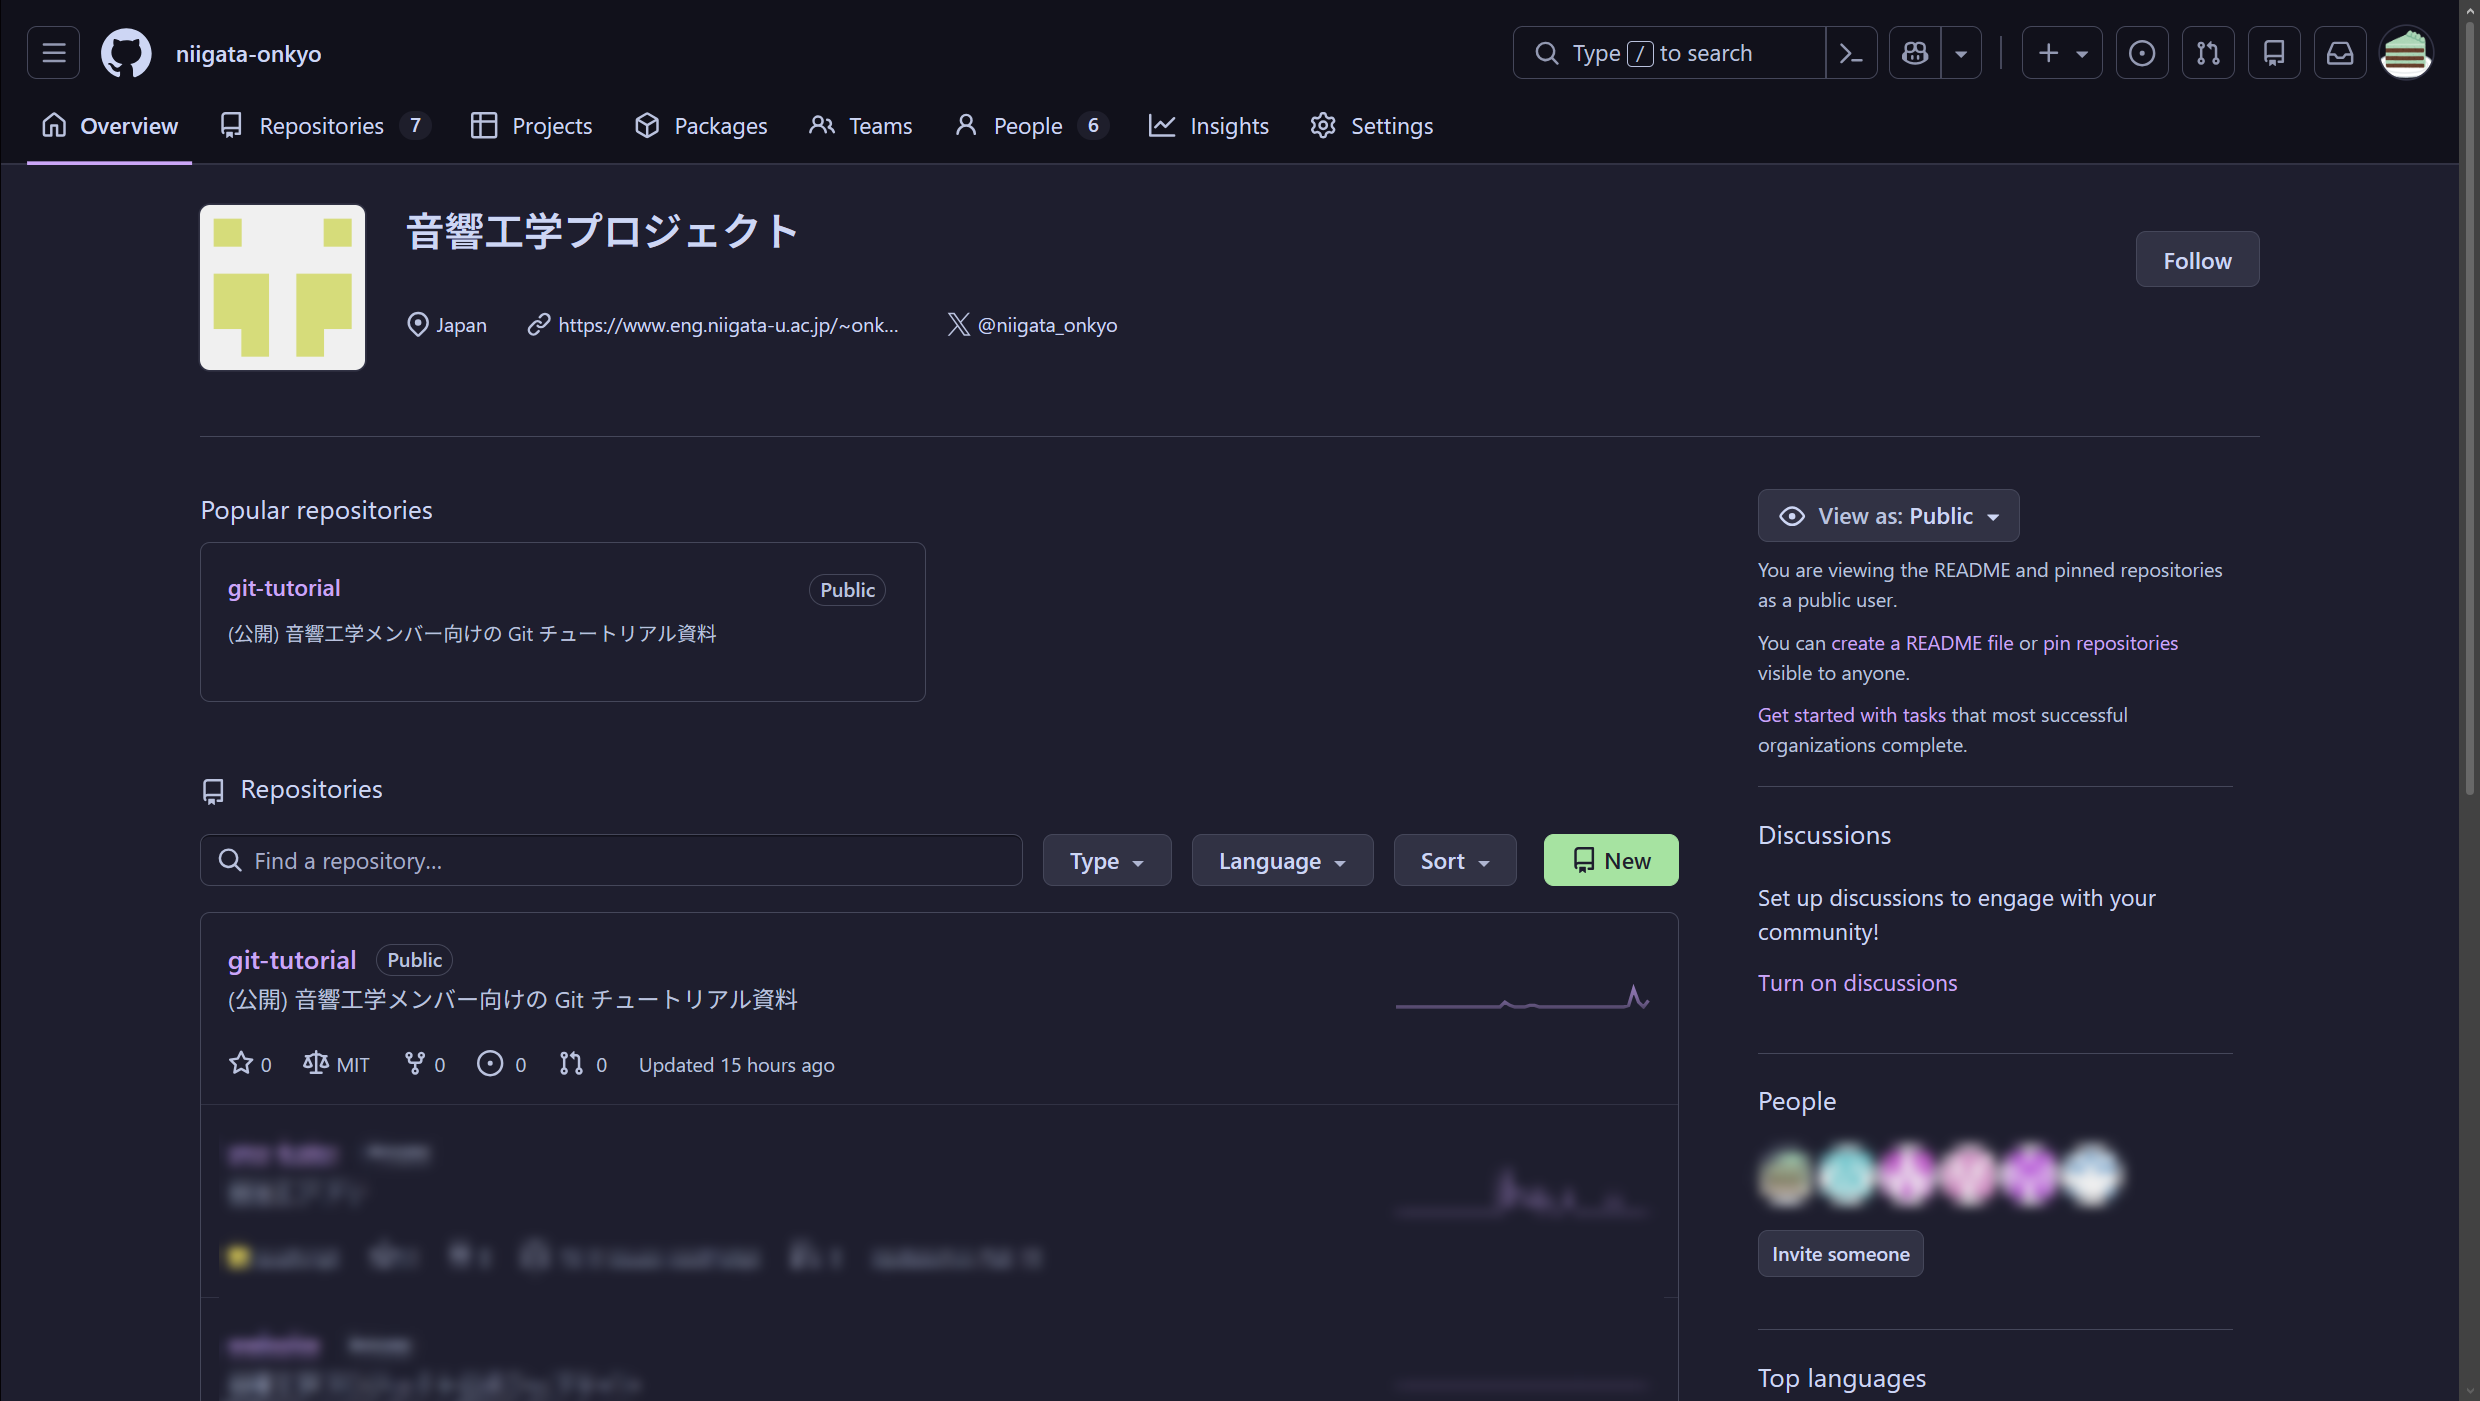
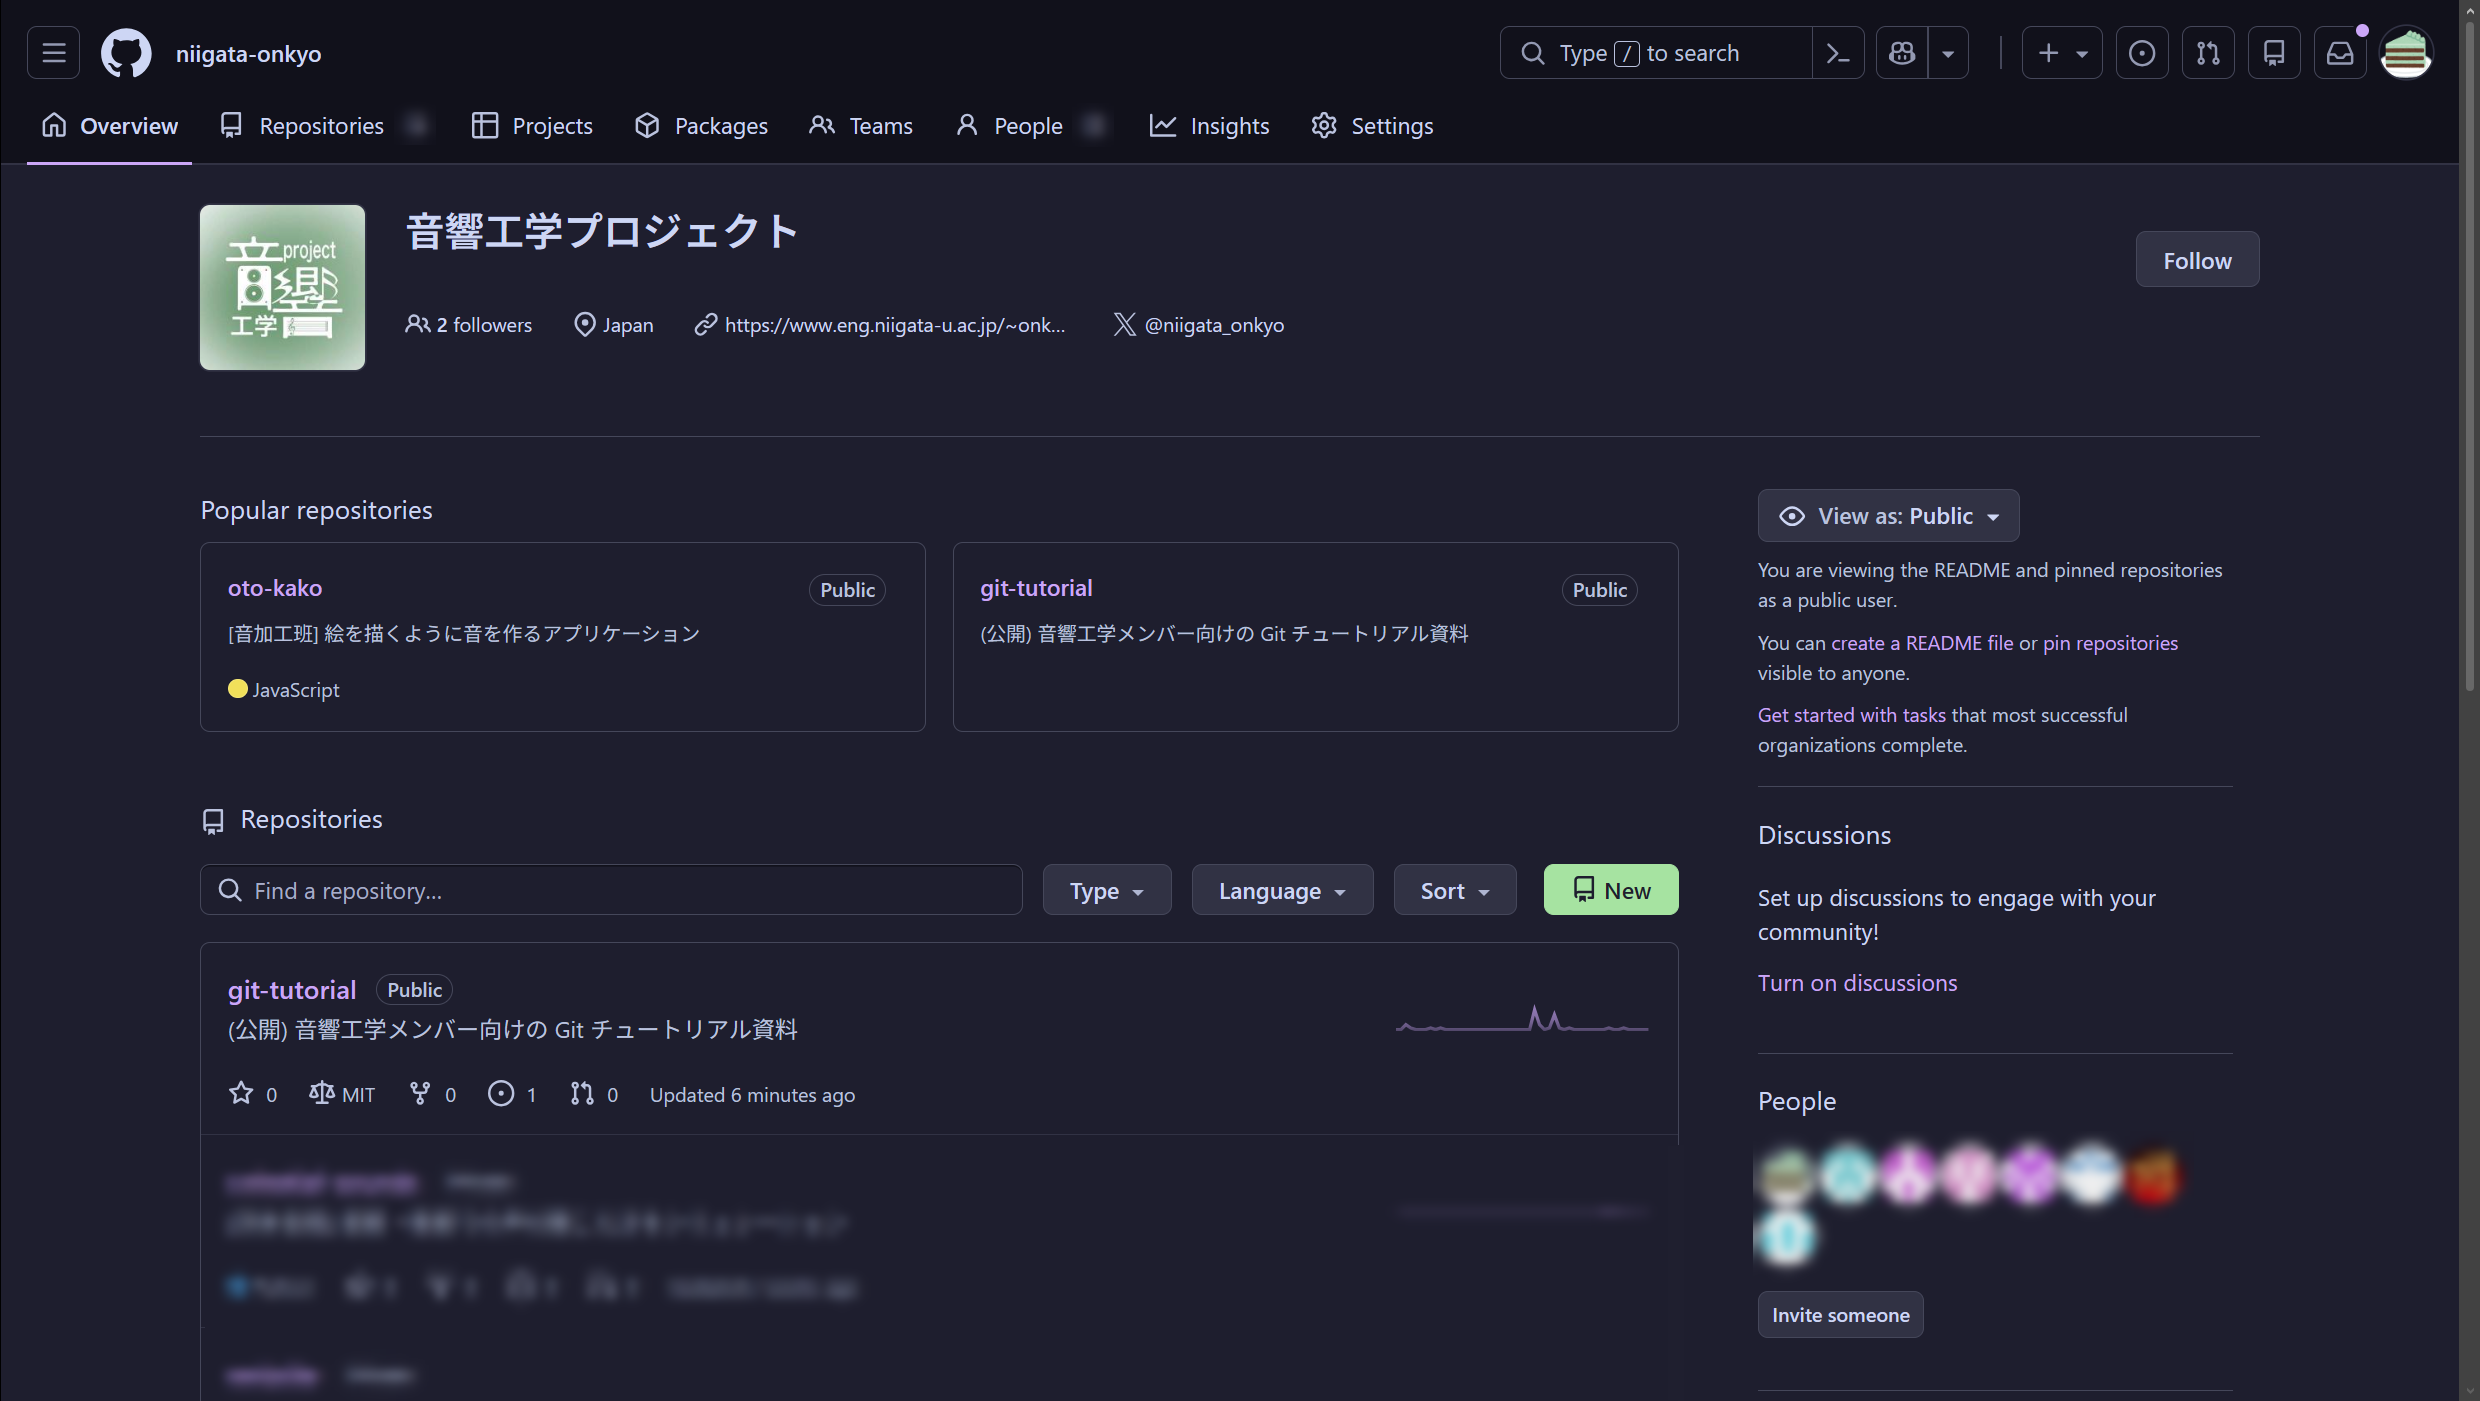
docs: 画像や文章を更新

diff --git a/content/docs/github/03-how-to-use/99-misc/index.md b/content/docs/github/03-how-to-use/99-misc/index.md
@@ -17,7 +17,6 @@ weight: 99
 | フォルダー・ファイル | 用途 |
 | -- | -- |
 | .github/ | GitHub 関係のファイルを格納しています。 |
-| .github/copilot-instructions.md | AI に質問する際に、AI に知っておいてほしい情報を入れます。<br />コードを書く際のルール (インデントや改行ルール、コメント記載など) |
 | .github/workflows/ | GitHub での自動化関係です。CI/CD と言われています。 |
 | **docs/** | 開発で用いる資料や過去のバージョンの変更資料などを格納しています。 |
 | **src/** | プログラム本体 (ソース) を入れています。 |

diff --git a/content/docs/github/03-how-to-use/04-repo/index.md b/content/docs/github/03-how-to-use/04-repo/index.md
@@ -63,13 +63,13 @@ weight: 4
 
 ![alt text](10.png)
 
-(*音響工学プロジェクトのローカルルール*: 簡単なバグやタイトルで分かる場合は、ほとんどまたは何も書かなくてもいいです)
-
 #### 新しい Issue の作成
 
 ![alt text](image.png)
 
 ![alt text](image-1.png)
+
+(*音響工学プロジェクトのローカルルール*: 簡単なバグやタイトルで分かる場合、内容の部分には、ほとんどまたは何も書かなくてもいいです。担当者、ラベルは入れても入れなくてもいいです)
 
 ### Pull Requests
 

diff --git a/content/docs/github/02-account-settings/index.md b/content/docs/github/02-account-settings/index.md
@@ -8,9 +8,9 @@ weight: 2
 
 このページでは、GitHub アカウントの設定についていくつか紹介します。
 
-(ちなみに、GitHub は**日本語設定がありません** (???)[^lang])
+(ちなみに、GitHub は**完全に英語サイトです**。日本語表示にできません (???)[^lang])
 
-[^lang]: というか、英語以外ないです。詰んだ…
+[^lang]: 日本人として、GitHub の難易度高い理由の1つがこれですね
 
 ## 1. GitHub のトップページ
 

diff --git a/content/_index.md b/content/_index.md
@@ -3,7 +3,7 @@ title: Git チュートリアル
 toc: false
 ---
 
-音響工学プロジェクト向けの Git / GitHub チュートリアルです。
+音響工学プロジェクト向けの Git / GitHub チュートリアルです。(作成中です!)
 
 ## Explore
 

diff --git a/content/docs/github/03-how-to-use/_index.md b/content/docs/github/03-how-to-use/_index.md
@@ -2,7 +2,7 @@
 title: 各ページの使い方
 type: docs
 prev: docs/github/02-account-settings/
-next: docs/github/02-account-settings/01-top-page/
+next: docs/github/03-how-to-use/01-top-page/
 sidebar:
   open: false
 weight: 3

diff --git a/content/docs/git/05-branch/index.md b/content/docs/git/05-branch/index.md
@@ -3,6 +3,7 @@ title: ブランチ
 type: docs
 prev: docs/git/04-stage-co
 next: docs/git/06-remote
+weight: 5
 ---
 
 ## ブランチとは

diff --git a/content/docs/git/01-vcs/index.md b/content/docs/git/01-vcs/index.md
@@ -3,6 +3,7 @@ title: はじめに
 type: docs
 prev: docs/git/
 next: docs/git/02-diff
+weight: 1
 ---
 
 ## Git を使いたい背景

diff --git a/content/docs/git/04-stage-co/index.md b/content/docs/git/04-stage-co/index.md
@@ -3,4 +3,5 @@ title: ステージ・コミット
 type: docs
 prev: docs/git/03-repo
 next: docs/git/05-branch
+weight: 4
 ---

diff --git a/content/docs/git/03-repo/index.md b/content/docs/git/03-repo/index.md
@@ -3,4 +3,5 @@ title: リポジトリ
 type: docs
 prev: docs/git/02-diff
 next: docs/git/04-stage-co
+weight: 3
 ---

diff --git a/content/docs/git/06-remote/index.md b/content/docs/git/06-remote/index.md
@@ -3,4 +3,5 @@ title: リモート
 type: docs
 prev: docs/git/05-branch
 next: docs/git-usage
+weight: 6
 ---

diff --git a/content/docs/git/02-diff/index.md b/content/docs/git/02-diff/index.md
@@ -3,4 +3,5 @@ title: 差分
 type: docs
 prev: docs/git/01-vcs
 next: docs/git/03-repo
+weight: 2
 ---
